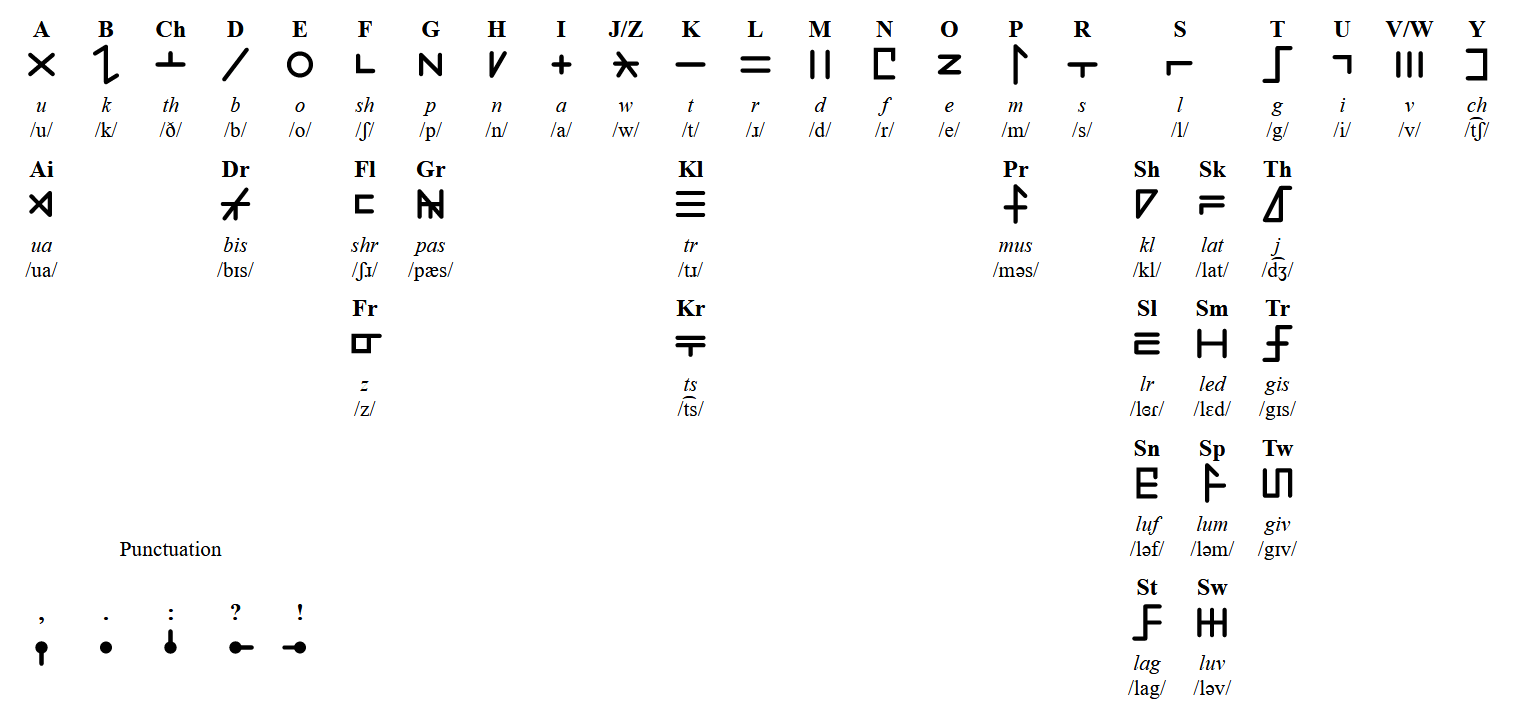
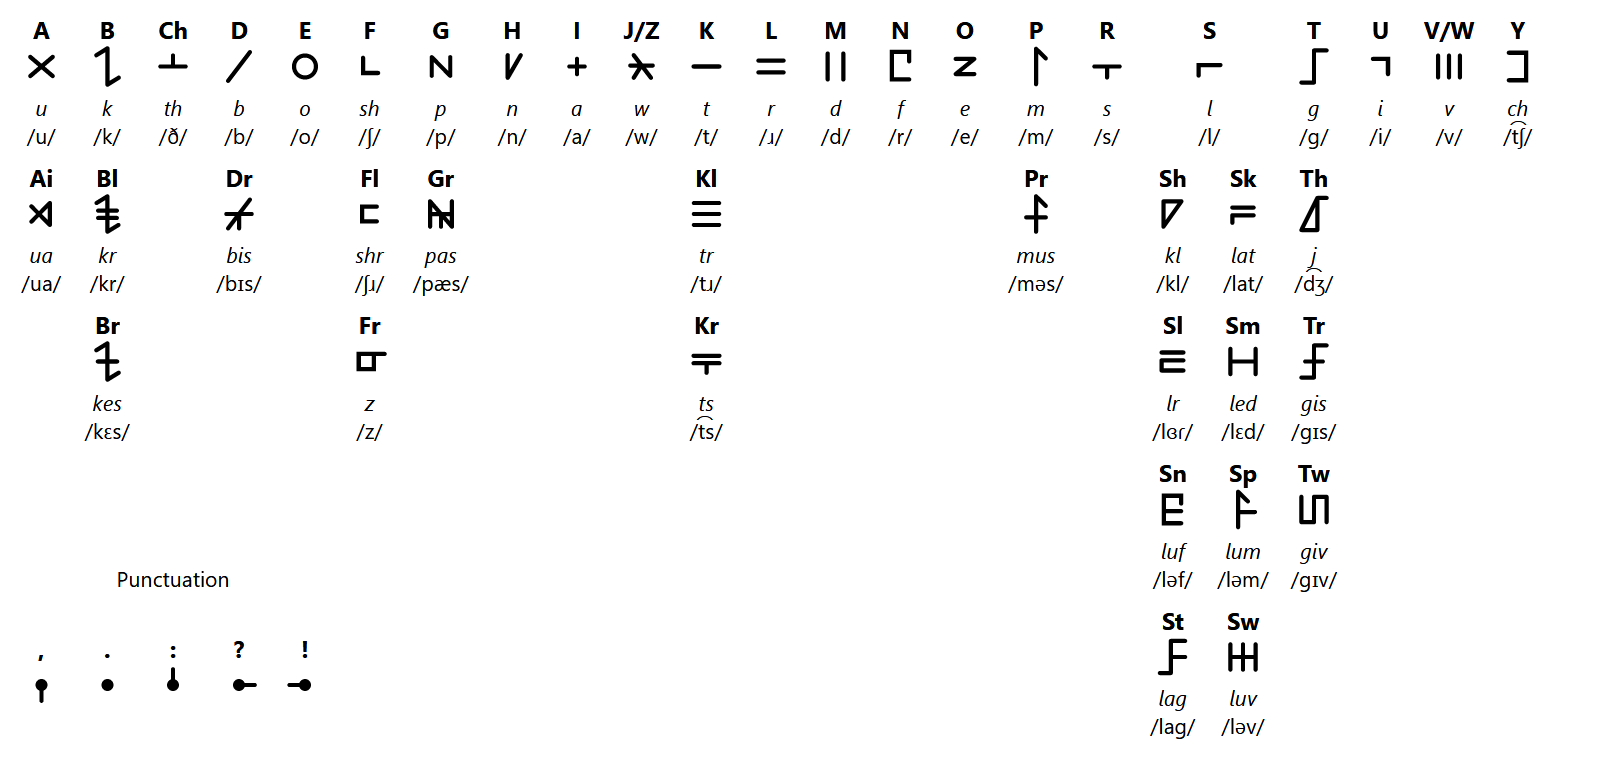
Add Bl and Br to chart

diff --git a/chart.html b/chart.html
@@ -5,6 +5,9 @@
   <meta http-equiv='X-UA-Compatible' content='IE=edge'>
   <title>Chart</title>
   <style>
+    * {
+      font-family: BlinkMacSystemFont, -apple-system, "Segoe UI", "Roboto", "Oxygen", "Ubuntu", "Cantarell", "Fira Sans", "Droid Sans", "Helvetica Neue", "Helvetica", "Arial", sans-serif;
+    }
     td {
       text-align: center;
       font-size: 16pt;
@@ -23,8 +26,8 @@
 <script>
 var tableRows = [
   ['a',  'b', 'ch',  'd',  'e',  'f',  'g',  'h',  'i',  'j',  'k',  'l',  'm',  'n',  'o',  'p',  'r',  's',  't',  'u',  'v',  'y'],
-  ['ai', '',  '',    'dr', '',   'fl', 'gr', '',   '',   '',   'kl', '',   '',   '',   '',   'pr', '',   'sh', 'sk', 'th', '',   '',   ''],
-  ['',   '',  '',    '',   '',   'fr', '',   '',   '',   '',   'kr', '',   '',   '',   '',   '',   '',   'sl', 'sm', 'tr', '',   '',   ''],
+  ['ai', 'bl','',    'dr', '',   'fl', 'gr', '',   '',   '',   'kl', '',   '',   '',   '',   'pr', '',   'sh', 'sk', 'th', '',   '',   ''],
+  ['',   'br','',    '',   '',   'fr', '',   '',   '',   '',   'kr', '',   '',   '',   '',   '',   '',   'sl', 'sm', 'tr', '',   '',   ''],
   ['Punctuation',                '',   '',   '',   '',   '',   '',   '',   '',   '',   '',   '',   '',   'sn', 'sp', 'tw', '',   '',   ''],
   [',',  '.', ':',   '?',  '!',  '',   '',   '',   '',   '',   '',   '',   '',   '',   '',   '',   '',   'st', 'sw', '',   '',   '',   ''],
 ];
